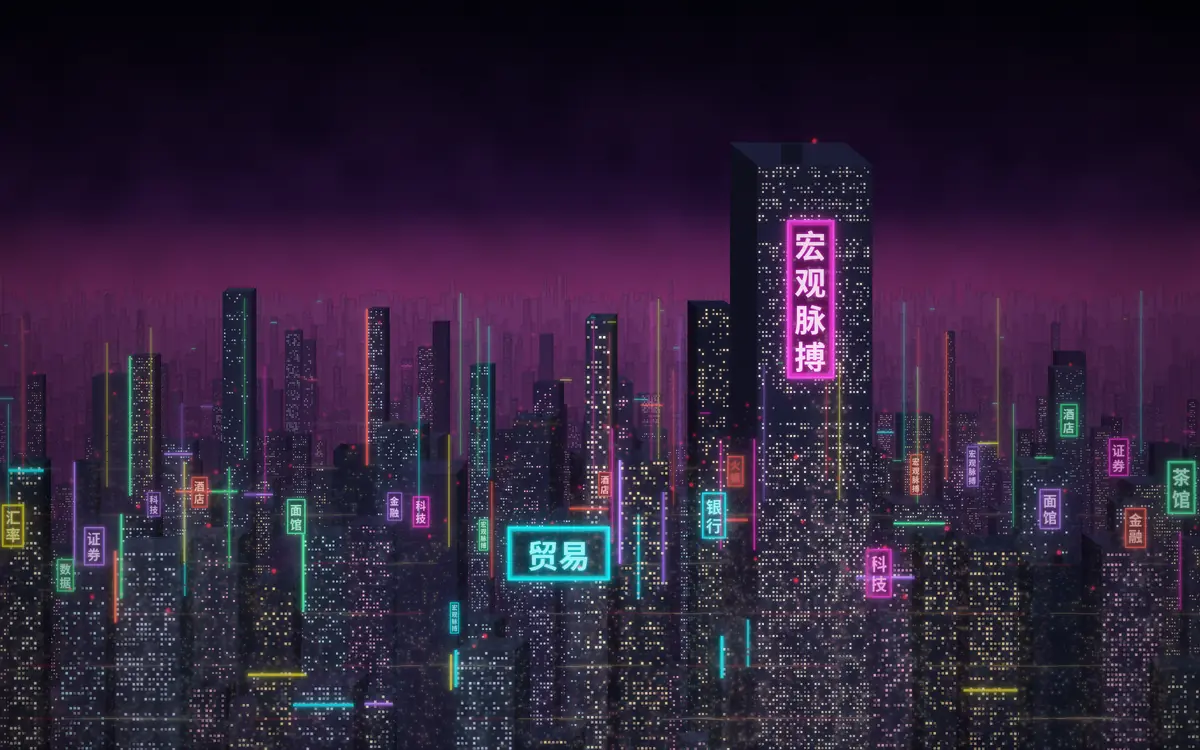
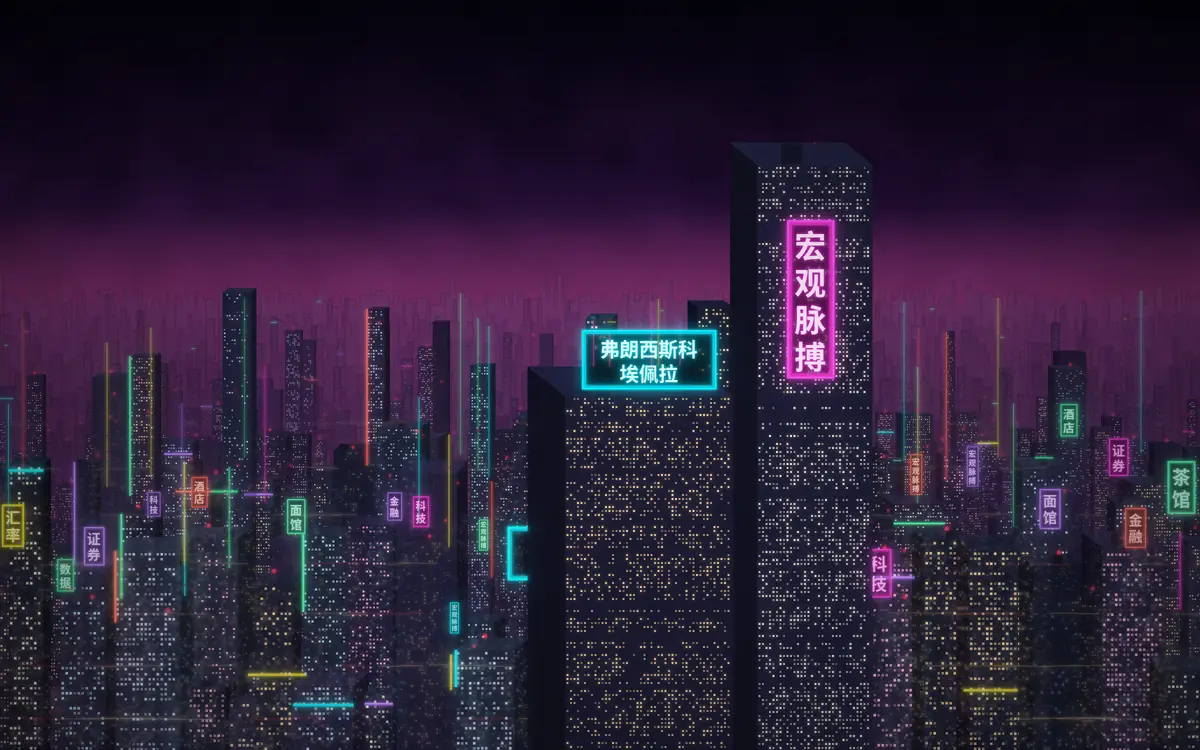
Modo Ciudad: jets privados en curva y cartel con el nombre en chino
Claude-Session: https://claude.ai/code/session_015RBW2LAWdjrm7ZmoZXJCXM

Changed region(s): [[0.4317, 0.4293, 0.74, 1.0]]

diff --git a/index.html b/index.html
@@ -169,7 +169,7 @@
 }
 </style>
 </head>
-<body><div id="cyFx" aria-hidden="true"><div class="city"></div><div class="velo"></div><div class="avion a1"><svg viewBox="0 0 120 40" aria-hidden="true"><defs><linearGradient id="cGr" x1="0" y1="0" x2="0" y2="1"><stop offset="0" stop-color="#c9ced8"/><stop offset=".55" stop-color="#8a909c"/><stop offset="1" stop-color="#4b505a"/></linearGradient><linearGradient id="cVi" x1="0" y1="0" x2="1" y2="0"><stop offset="0" stop-color="#1b2433"/><stop offset=".6" stop-color="#3d5068"/><stop offset="1" stop-color="#20283a"/></linearGradient><radialGradient id="cFl"><stop offset="0" stop-color="#7ff3ff" stop-opacity=".9"/><stop offset="1" stop-color="#00e5ff" stop-opacity="0"/></radialGradient></defs><ellipse class="ug" cx="30" cy="37" rx="11" ry="2.6" fill="url(#cFl)"/><ellipse class="ug" cx="90" cy="37" rx="11" ry="2.6" fill="url(#cFl)"/><path d="M6 27 C6 23 8 21 12 20 L34 17.5 C40 12 48 9.5 58 9.2 C67 9 74 10.5 80 14 L98 18.5 C107 20 113 21.5 115 24 C116.5 26 116 28.5 114 29.5 L101 30 A11 11 0 0 0 79 30 L41 30 A11 11 0 0 0 19 30 L9 30 C7 30 6 29 6 27Z" fill="url(#cGr)"/><path d="M38 17.6 C44 12.8 50 11 58 10.8 C66 10.7 72 11.8 77.5 14.6 L80 17.2 Z" fill="url(#cVi)"/><path d="M59 11 L60 17.4" stroke="#6b707b" stroke-width=".9"/><path d="M9 24.5 L112 23.2" stroke="#ffffff" stroke-opacity=".35" stroke-width=".7"/><path d="M46 23 L72 22.6" stroke="#5c616c" stroke-width=".8"/><circle cx="30" cy="30" r="8.4" fill="#16181d"/><circle cx="30" cy="30" r="5.2" fill="#3a3e46" stroke="#9aa0aa" stroke-width=".8"/><circle class="tb" cx="30" cy="30" r="2" fill="#4ad8ff"/><circle cx="90" cy="30" r="8.4" fill="#16181d"/><circle cx="90" cy="30" r="5.2" fill="#3a3e46" stroke="#9aa0aa" stroke-width=".8"/><circle class="tb" cx="90" cy="30" r="2" fill="#4ad8ff"/><path class="fa" d="M108.5 21.8 L114.6 23.4 L114 24.8 L108 23.6Z" fill="#fff6d8"/><path d="M6.4 22.6 L11 21.2 L11 23.4 L6.6 24.6Z" fill="#ff2a2a"/></svg></div><div class="avion a2"><svg viewBox="0 0 120 40" aria-hidden="true"><defs><linearGradient id="cGr" x1="0" y1="0" x2="0" y2="1"><stop offset="0" stop-color="#c9ced8"/><stop offset=".55" stop-color="#8a909c"/><stop offset="1" stop-color="#4b505a"/></linearGradient><linearGradient id="cVi" x1="0" y1="0" x2="1" y2="0"><stop offset="0" stop-color="#1b2433"/><stop offset=".6" stop-color="#3d5068"/><stop offset="1" stop-color="#20283a"/></linearGradient><radialGradient id="cFl"><stop offset="0" stop-color="#7ff3ff" stop-opacity=".9"/><stop offset="1" stop-color="#00e5ff" stop-opacity="0"/></radialGradient></defs><ellipse class="ug" cx="30" cy="37" rx="11" ry="2.6" fill="url(#cFl)"/><ellipse class="ug" cx="90" cy="37" rx="11" ry="2.6" fill="url(#cFl)"/><path d="M6 27 C6 23 8 21 12 20 L34 17.5 C40 12 48 9.5 58 9.2 C67 9 74 10.5 80 14 L98 18.5 C107 20 113 21.5 115 24 C116.5 26 116 28.5 114 29.5 L101 30 A11 11 0 0 0 79 30 L41 30 A11 11 0 0 0 19 30 L9 30 C7 30 6 29 6 27Z" fill="url(#cGr)"/><path d="M38 17.6 C44 12.8 50 11 58 10.8 C66 10.7 72 11.8 77.5 14.6 L80 17.2 Z" fill="url(#cVi)"/><path d="M59 11 L60 17.4" stroke="#6b707b" stroke-width=".9"/><path d="M9 24.5 L112 23.2" stroke="#ffffff" stroke-opacity=".35" stroke-width=".7"/><path d="M46 23 L72 22.6" stroke="#5c616c" stroke-width=".8"/><circle cx="30" cy="30" r="8.4" fill="#16181d"/><circle cx="30" cy="30" r="5.2" fill="#3a3e46" stroke="#9aa0aa" stroke-width=".8"/><circle class="tb" cx="30" cy="30" r="2" fill="#4ad8ff"/><circle cx="90" cy="30" r="8.4" fill="#16181d"/><circle cx="90" cy="30" r="5.2" fill="#3a3e46" stroke="#9aa0aa" stroke-width=".8"/><circle class="tb" cx="90" cy="30" r="2" fill="#4ad8ff"/><path class="fa" d="M108.5 21.8 L114.6 23.4 L114 24.8 L108 23.6Z" fill="#fff6d8"/><path d="M6.4 22.6 L11 21.2 L11 23.4 L6.6 24.6Z" fill="#ff2a2a"/></svg></div><div class="scan"></div></div>
+<body><div id="cyFx" aria-hidden="true"><div class="city"></div><div class="velo"></div><div class="jet j1"><svg aria-hidden="true" viewBox="0 0 200 62"><defs><linearGradient id="jF" x1="0" y1="0" x2="0" y2="1"><stop offset="0" stop-color="#eef0f4"/><stop offset=".35" stop-color="#c3c8d1"/><stop offset=".7" stop-color="#7d8494"/><stop offset="1" stop-color="#5a3f66"/></linearGradient><linearGradient id="jE" x1="0" y1="0" x2="0" y2="1"><stop offset="0" stop-color="#dfe2e8"/><stop offset=".6" stop-color="#8d93a0"/><stop offset="1" stop-color="#4b4357"/></linearGradient><linearGradient id="jW" x1="0" y1="0" x2="1" y2="1"><stop offset="0" stop-color="#9aa0ac"/><stop offset="1" stop-color="#535866"/></linearGradient><linearGradient id="jT" x1="0" y1="0" x2="0" y2="1"><stop offset="0" stop-color="#d4d8df"/><stop offset="1" stop-color="#8a909d"/></linearGradient><radialGradient id="jL"><stop offset="0" stop-color="#fff"/><stop offset=".35" stop-color="#fff" stop-opacity=".7"/><stop offset="1" stop-color="#fff" stop-opacity="0"/></radialGradient><radialGradient id="jR"><stop offset="0" stop-color="#ff5a5a"/><stop offset="1" stop-color="#ff2020" stop-opacity="0"/></radialGradient></defs><path d="M100 36 L126 35.6 L108 37.4 Z" fill="#6c7280" opacity=".7"/><path d="M30 25.5 L13 5 C12.4 4.2 12.8 3.6 13.8 3.6 L22 3.6 C23.2 3.6 24 4 24.6 4.8 L46 24.5 Z" fill="url(#jT)"/><path d="M3 5.4 L33 4 C34.5 4 34.6 5.8 33 6 L4 7 C2.6 7 2.4 5.5 3 5.4 Z" fill="#b9bec8"/><path d="M7 28.6 C16 25 36 23 62 22.6 L148 22.4 C162 22.4 172 23.6 180 26.4 C186 28.4 191.5 30.6 194.5 32.4 C195.4 33 195 34 193.8 34.5 C188 36.6 180 38.2 170 38.8 L76 39.4 C52 39.4 30 36.2 8 31.4 C6 31 5.8 29.2 7 28.6 Z" fill="url(#jF)"/><path d="M14 30.2 C40 33 64 34.2 96 34.4 L190 33.6" stroke="#3b4150" stroke-width="1.1" fill="none" opacity=".6"/><path d="M18 31.6 C42 34.6 66 35.6 96 35.8 L186 35.2" stroke="#9b2b3a" stroke-width=".8" fill="none" opacity=".55"/><path d="M172 25.6 C178 26.2 183.4 27.6 187.6 29.6 L186.4 30.6 C182 29.4 177 28.8 171.8 28.6 Z" fill="#121822"/><path d="M165.4 25 L170.6 25.4 L170.4 28.4 L165 28.2 Z" fill="#121822"/><g fill="#ffd9a0" opacity=".85"><ellipse cx="96" cy="27.4" rx="2" ry="2.4"/><ellipse cx="105" cy="27.4" rx="2" ry="2.4"/><ellipse cx="114" cy="27.4" rx="2" ry="2.4"/><ellipse cx="123" cy="27.4" rx="2" ry="2.4"/><ellipse cx="132" cy="27.4" rx="2" ry="2.4"/><ellipse cx="141" cy="27.4" rx="2" ry="2.4"/><ellipse cx="150" cy="27.4" rx="2" ry="2.4"/></g><path d="M156 25.2 L160.6 25.2 L160.6 33.6 L156 33.6 Z" fill="none" stroke="#5d6372" stroke-width=".6"/><path d="M46 22.6 L60 22.4 L58 26 L48 26.2 Z" fill="#8e94a1"/><path d="M36 16.6 C44 14.6 62 14.4 72 16 C75 16.6 75.6 22 72 22.8 C62 24.2 44 24 36 22.2 C33.6 21.4 33.6 17.4 36 16.6 Z" fill="url(#jE)"/><path d="M70.6 16.2 C73.8 16.8 74.6 22 70.8 22.6 C72 21 72 17.8 70.6 16.2 Z" fill="#15191f"/><path d="M36 17.6 C34.6 18.6 34.6 20.8 36 21.6 L31 21 C30 20.4 30 18.6 31 18 Z" fill="#3b3f48"/><path d="M124 37.2 L94 38.6 L66 51.4 C68.6 52.2 72 52.2 75.4 51.6 Z" fill="url(#jW)"/><path d="M124 37.2 L75.4 51.6" stroke="#c9ced7" stroke-width=".7" opacity=".7"/><path d="M66 51.4 L61.6 45.2 L63.6 45 L69.6 51.8 Z" fill="#9aa0ac"/><g class="jbl"><circle cx="110" cy="21.8" r="4" fill="url(#jR)"/><circle cx="110" cy="21.8" r="1" fill="#ff6a6a"/></g><g class="jbl jb2"><circle cx="118" cy="39.8" r="4" fill="url(#jR)"/><circle cx="118" cy="39.8" r=".9" fill="#ff6a6a"/></g><g class="jst"><circle cx="13.6" cy="4" r="5" fill="url(#jL)"/><circle cx="62.4" cy="45" r="5" fill="url(#jL)"/></g><circle cx="62.6" cy="45.3" r="1.1" fill="#ff3b3b"/><circle cx="190" cy="34.8" r="1" fill="#fff6dc"/></svg></div><div class="jet j2"><svg aria-hidden="true" viewBox="0 0 200 62"><defs><linearGradient id="kF" x1="0" y1="0" x2="0" y2="1"><stop offset="0" stop-color="#eef0f4"/><stop offset=".35" stop-color="#c3c8d1"/><stop offset=".7" stop-color="#7d8494"/><stop offset="1" stop-color="#5a3f66"/></linearGradient><linearGradient id="kE" x1="0" y1="0" x2="0" y2="1"><stop offset="0" stop-color="#dfe2e8"/><stop offset=".6" stop-color="#8d93a0"/><stop offset="1" stop-color="#4b4357"/></linearGradient><linearGradient id="kW" x1="0" y1="0" x2="1" y2="1"><stop offset="0" stop-color="#9aa0ac"/><stop offset="1" stop-color="#535866"/></linearGradient><linearGradient id="kT" x1="0" y1="0" x2="0" y2="1"><stop offset="0" stop-color="#d4d8df"/><stop offset="1" stop-color="#8a909d"/></linearGradient><radialGradient id="kL"><stop offset="0" stop-color="#fff"/><stop offset=".35" stop-color="#fff" stop-opacity=".7"/><stop offset="1" stop-color="#fff" stop-opacity="0"/></radialGradient><radialGradient id="kR"><stop offset="0" stop-color="#ff5a5a"/><stop offset="1" stop-color="#ff2020" stop-opacity="0"/></radialGradient></defs><path d="M100 36 L126 35.6 L108 37.4 Z" fill="#6c7280" opacity=".7"/><path d="M30 25.5 L13 5 C12.4 4.2 12.8 3.6 13.8 3.6 L22 3.6 C23.2 3.6 24 4 24.6 4.8 L46 24.5 Z" fill="url(#kT)"/><path d="M3 5.4 L33 4 C34.5 4 34.6 5.8 33 6 L4 7 C2.6 7 2.4 5.5 3 5.4 Z" fill="#b9bec8"/><path d="M7 28.6 C16 25 36 23 62 22.6 L148 22.4 C162 22.4 172 23.6 180 26.4 C186 28.4 191.5 30.6 194.5 32.4 C195.4 33 195 34 193.8 34.5 C188 36.6 180 38.2 170 38.8 L76 39.4 C52 39.4 30 36.2 8 31.4 C6 31 5.8 29.2 7 28.6 Z" fill="url(#kF)"/><path d="M14 30.2 C40 33 64 34.2 96 34.4 L190 33.6" stroke="#3b4150" stroke-width="1.1" fill="none" opacity=".6"/><path d="M18 31.6 C42 34.6 66 35.6 96 35.8 L186 35.2" stroke="#9b2b3a" stroke-width=".8" fill="none" opacity=".55"/><path d="M172 25.6 C178 26.2 183.4 27.6 187.6 29.6 L186.4 30.6 C182 29.4 177 28.8 171.8 28.6 Z" fill="#121822"/><path d="M165.4 25 L170.6 25.4 L170.4 28.4 L165 28.2 Z" fill="#121822"/><g fill="#ffd9a0" opacity=".85"><ellipse cx="96" cy="27.4" rx="2" ry="2.4"/><ellipse cx="105" cy="27.4" rx="2" ry="2.4"/><ellipse cx="114" cy="27.4" rx="2" ry="2.4"/><ellipse cx="123" cy="27.4" rx="2" ry="2.4"/><ellipse cx="132" cy="27.4" rx="2" ry="2.4"/><ellipse cx="141" cy="27.4" rx="2" ry="2.4"/><ellipse cx="150" cy="27.4" rx="2" ry="2.4"/></g><path d="M156 25.2 L160.6 25.2 L160.6 33.6 L156 33.6 Z" fill="none" stroke="#5d6372" stroke-width=".6"/><path d="M46 22.6 L60 22.4 L58 26 L48 26.2 Z" fill="#8e94a1"/><path d="M36 16.6 C44 14.6 62 14.4 72 16 C75 16.6 75.6 22 72 22.8 C62 24.2 44 24 36 22.2 C33.6 21.4 33.6 17.4 36 16.6 Z" fill="url(#kE)"/><path d="M70.6 16.2 C73.8 16.8 74.6 22 70.8 22.6 C72 21 72 17.8 70.6 16.2 Z" fill="#15191f"/><path d="M36 17.6 C34.6 18.6 34.6 20.8 36 21.6 L31 21 C30 20.4 30 18.6 31 18 Z" fill="#3b3f48"/><path d="M124 37.2 L94 38.6 L66 51.4 C68.6 52.2 72 52.2 75.4 51.6 Z" fill="url(#kW)"/><path d="M124 37.2 L75.4 51.6" stroke="#c9ced7" stroke-width=".7" opacity=".7"/><path d="M66 51.4 L61.6 45.2 L63.6 45 L69.6 51.8 Z" fill="#9aa0ac"/><g class="jbl"><circle cx="110" cy="21.8" r="4" fill="url(#kR)"/><circle cx="110" cy="21.8" r="1" fill="#ff6a6a"/></g><g class="jbl jb2"><circle cx="118" cy="39.8" r="4" fill="url(#kR)"/><circle cx="118" cy="39.8" r=".9" fill="#ff6a6a"/></g><g class="jst"><circle cx="13.6" cy="4" r="5" fill="url(#kL)"/><circle cx="62.4" cy="45" r="5" fill="url(#kL)"/></g><circle cx="62.6" cy="45.3" r="1.1" fill="#ff3b3b"/><circle cx="190" cy="34.8" r="1" fill="#fff6dc"/></svg></div><div class="scan"></div></div>
 <link rel="preconnect" href="https://fonts.googleapis.com">
 <link rel="stylesheet" href="https://fonts.googleapis.com/css2?family=Instrument+Sans:wght@400;500;600;700&family=JetBrains+Mono:wght@400;500;600&display=swap">
 <style>
@@ -777,19 +777,16 @@ html[data-tema="cyber"] body{background:#04050c}
 html[data-tema="cyber"] #cyFx{display:block;position:fixed;inset:0;pointer-events:none;z-index:0;overflow:hidden}
 #cyFx .city{position:absolute;inset:0;background:#05040f url(/fondos/ciudad3-2400.jpg) center bottom/cover no-repeat;background-image:image-set(url(/fondos/ciudad3-2400.webp) type("image/webp"),url(/fondos/ciudad3-2400.jpg) type("image/jpeg"))}
 @media (max-width:900px){#cyFx .city{background-position:66% bottom;background-image:url(/fondos/ciudad3-1200.jpg);background-image:image-set(url(/fondos/ciudad3-1200.webp) type("image/webp"),url(/fondos/ciudad3-1200.jpg) type("image/jpeg"))}}
-/* autos voladores (pedido del dueño 02/11/2026: deportivo gris volador genérico, de diseño propio): chicos, lentos y de a uno cada tanto; quietos con "reducir movimiento" */
-#cyFx .avion{position:absolute;left:0;width:96px;opacity:.85;will-change:transform;transform:translateX(-60px)}
-#cyFx .avion svg{width:100%;display:block}
-#cyFx .a1{top:14%;animation:avIda 64s linear infinite 6s}
-#cyFx .a2{top:25%;width:62px;opacity:.6;animation:avVuelta 92s linear infinite 38s}
-#cyFx .a2 svg{transform:scaleX(-1)}
-@keyframes avIda{0%{transform:translateX(-60px)}48%{transform:translateX(calc(100vw + 60px))}100%{transform:translateX(calc(100vw + 60px))}}
-@keyframes avVuelta{0%{transform:translateX(calc(100vw + 60px))}40%{transform:translateX(-60px)}100%{transform:translateX(-60px)}}
-#cyFx .avion .tb,#cyFx .avion .ug{animation:avTurbo .35s ease-in-out infinite alternate}
-#cyFx .avion .fa{filter:drop-shadow(0 0 3px #fff6c8)}
-@keyframes avTurbo{from{opacity:.45}to{opacity:1}}
-#cyFx .avion{filter:drop-shadow(0 0 4px #00e5ff88)}
-@media (prefers-reduced-motion: reduce){#cyFx .avion{display:none}}
+/* jets privados (pedido del dueño 02/11/2026: realista, de diseño propio, sin marca; NO en línea recta): los mueve jetVuelo() por una curva al azar, con inclinación y cambio de tamaño por distancia; quietos con "reducir movimiento" */
+#cyFx .jet{position:absolute;left:0;top:0;width:150px;opacity:0;will-change:transform,opacity;transform-origin:50% 50%}
+#cyFx .jet svg{width:100%;display:block;filter:drop-shadow(0 2px 6px rgba(0,0,0,.45))}
+#cyFx .jet.izq svg{transform:scaleX(-1)}
+#cyFx .jet .jbl{animation:jBl 1.3s steps(1) infinite}
+#cyFx .jet .jb2{animation-delay:.65s}
+#cyFx .jet .jst{opacity:0;animation:jSt 1.9s linear infinite}
+@keyframes jBl{0%{opacity:1}18%{opacity:0}100%{opacity:0}}
+@keyframes jSt{0%,6%{opacity:1}7%,13%{opacity:0}14%,18%{opacity:1}19%,100%{opacity:0}}
+@media (prefers-reduced-motion: reduce){#cyFx .jet{display:none}}
 #cyFx .velo{position:absolute;inset:0;background:linear-gradient(180deg,rgba(4,5,12,.6) 0%,rgba(4,5,12,.56) 40%,rgba(4,5,12,.5) 70%,rgba(4,5,12,.36) 100%)}
 
 #cyFx .scan{position:absolute;inset:0;background:repeating-linear-gradient(0deg,rgba(255,255,255,.028) 0 1px,transparent 1px 3px)}
@@ -9165,5 +9162,50 @@ body.mporta .hbus{display:none}
 })();
 </script>
 
+<script>
+/* Modo Ciudad: jets privados que cruzan en curva (curva de Bézier al azar en cada pasada, inclinación según la dirección, más grande o más chico según se acerca o se aleja) */
+(function jetVuelo(){
+  if (matchMedia('(prefers-reduced-motion: reduce)').matches) return;
+  const R = Math.random, cl = (v,a,b) => Math.max(a, Math.min(b, v));
+  const J = [...document.querySelectorAll('#cyFx .jet')].map((el,i) => ({el, lejos: i === 1, t0: 0, dur: 0, p: null, ang: 0, espera: performance.now() + (i ? 30000 : 5000)}));
+  function nueva(j, ahora){
+    const vw = innerWidth, vh = innerHeight, chico = vw < 700;
+    const y0 = vh*(.06 + R()*.26), y3 = vh*(.06 + R()*.30);
+    j.p = [[-260, y0], [vw*(.22 + R()*.18), y0 + (R()-.5)*vh*.4], [vw*(.58 + R()*.18), y3 + (R()-.5)*vh*.4], [vw + 260, y3]];
+    j.izq = R() < .5; j.el.classList.toggle('izq', j.izq);
+    const acerca = R() < .5;
+    const base = j.lejos ? .42 : (chico ? .62 : .9), rango = j.lejos ? .18 : .35;
+    j.s0 = acerca ? base : base + rango; j.s1 = acerca ? base + rango : base;
+    j.dur = (j.lejos ? 62000 : 42000) + R()*18000; if (chico) j.dur *= .7;
+    j.t0 = ahora; j.fase = R()*6.28;
+  }
+  function bz(p, u, d){
+    const m = 1-u;
+    if (!d) return [0,1].map(k => m*m*m*p[0][k] + 3*m*m*u*p[1][k] + 3*m*u*u*p[2][k] + u*u*u*p[3][k]);
+    return [0,1].map(k => 3*m*m*(p[1][k]-p[0][k]) + 6*m*u*(p[2][k]-p[1][k]) + 3*u*u*(p[3][k]-p[2][k]));
+  }
+  function paso(ahora){
+    const on = document.documentElement.dataset.tema === 'cyber' && !document.hidden;
+    if (!on) { J.forEach(j => { j.el.style.opacity = 0; j.p = null; }); return setTimeout(() => requestAnimationFrame(paso), 2000); }
+    for (const j of J) {
+      if (!j.p) { if (ahora < j.espera) continue; nueva(j, ahora); }
+      const t = (ahora - j.t0) / j.dur;
+      if (t >= 1) { j.p = null; j.el.style.opacity = 0; j.espera = ahora + (j.lejos ? 35000 : 18000) + R()*30000; continue; }
+      const u = cl(t + .035*Math.sin(t*6.28), 0, 1);        // velocidad que varía un poco
+      let [x, y] = bz(j.p, u), [dx, dy] = bz(j.p, u, 1);
+      let a = cl(Math.atan2(dy, dx) * 57.3, -16, 16);
+      a += Math.sin(ahora/1700 + j.fase) * .8;               // leve balanceo
+      j.ang += (a - j.ang) * .08;
+      if (j.izq) x = innerWidth - x;
+      const s = j.s0 + (j.s1 - j.s0) * t;
+      const op = cl(Math.min(t, 1-t) / .05, 0, 1) * (j.lejos ? .62 : .92);
+      j.el.style.opacity = op.toFixed(3);
+      j.el.style.transform = `translate3d(${(x-75).toFixed(1)}px,${y.toFixed(1)}px,0) rotate(${(j.izq ? -j.ang : j.ang).toFixed(2)}deg) scale(${s.toFixed(3)})`;
+    }
+    requestAnimationFrame(paso);
+  }
+  requestAnimationFrame(paso);
+})();
+</script>
 </body>
 </html>

diff --git a/scripts/ciudad_render.py b/scripts/ciudad_render.py
@@ -46,7 +46,7 @@ PAL_VENT = [(255, 214, 150), (255, 236, 196), (170, 230, 255), (255, 170, 210), 
 NEON = [(0, 240, 255), (255, 43, 214), (252, 238, 10), (57, 255, 158), (164, 107, 255), (255, 90, 60)]
 PALABRAS = ['宏观脉搏', '宏观脉搏', '金融', '银行', '证券', '汇率', '股市', '夜市', '火锅', '面馆', '外汇', '贸易', '酒店', '茶馆', '数据', '科技']
 
-def edificio(d, gdr, x, top, w, piso, prof, col, niebla, dens, cerca):
+def edificio(d, gdr, x, top, w, piso, prof, col, niebla, dens, cerca, encendido=False):
     """Edificio en perspectiva desde arriba: cara frontal, cara lateral y terraza."""
     lado = int(w * random.uniform(.18, .32)) if cerca > .3 else int(w * .15)
     dir_ = 1 if x + w / 2 < W / 2 else -1        # lado visible según de qué lado del centro está
@@ -72,7 +72,7 @@ def edificio(d, gdr, x, top, w, piso, prof, col, niebla, dens, cerca):
         ex = x + random.randint(4, max(5, w - 20)); d.rectangle([ex, top - terraza + 2, ex + w * .18, top - 2], fill=mezcla(r, (0, 0, 0), .35))
     # ventanas
     vw = max(1, int(1 + 4 * cerca)); vh = max(1, int(1 + 4 * cerca)); sx = vw + max(1, int(1 + 2.5 * cerca)); sy = vh + max(1, int(2 + 3 * cerca))
-    pal = random.choice(PAL_VENT); apagado = random.random() < .15
+    pal = random.choice(PAL_VENT); apagado = random.random() < .15 and not encendido
     for wy in range(int(top) + 4, min(int(piso), H) - 2, sy):
         fila_on = random.random() < .85
         for wx in range(int(x) + 3, int(x + w) - vw - 1, sx):
@@ -180,9 +180,9 @@ fx, fy, paso = int(W * .66), int(H * .30), 74
 torre = Image.new('RGBA', (W, H), (0, 0, 0, 0)); td = ImageDraw.Draw(torre)
 tg = Image.new('RGB', (W, H), (0, 0, 0)); tgd = ImageDraw.Draw(tg)
 random.seed(99)
-edificio(td, tgd, fx - 70, fy - 120, 230, H + 10, .05, (26, 28, 52, 255), (40, 18, 58), .45, .9)
+edificio(td, tgd, fx - 70, fy - 120, 230, H + 10, .05, (26, 28, 52, 255), (40, 18, 58), .45, .9, encendido=True)
 lienzo = Image.alpha_composite(lienzo.convert('RGBA'), torre).convert('RGB'); cd = ImageDraw.Draw(lienzo)
-glow = ImageChops.lighter(glow, tg); gd = ImageDraw.Draw(glow)
+glow = Image.composite(tg, glow, torre.split()[3]); gd = ImageDraw.Draw(glow)   # la torre tapa el brillo de lo que queda atrás
 fnt = fuente(int(paso * .86)); pal = '宏观脉搏'
 cd.rectangle([fx - 10, fy - 10, fx + paso + 10, fy + paso * 4 + 10], fill=(8, 4, 18), outline=(255, 43, 214), width=4)
 gd.rectangle([fx - 10, fy - 10, fx + paso + 10, fy + paso * 4 + 10], outline=(255, 43, 214), width=10)
@@ -190,6 +190,26 @@ for i, ch in enumerate(pal):
     cy = fy + i * paso + paso / 2
     cd.text((fx + paso / 2, cy), ch, font=fnt, fill=(255, 225, 250), anchor='mm')
     gd.text((fx + paso / 2, cy), ch, font=fnt, fill=(255, 43, 214), anchor='mm')
+
+# ---------- cartel con el nombre del dueño: 弗朗西斯科 埃佩拉 = "Francisco Epherra" (pedido del dueño 02/11/2026) ----------
+nx, ny, np_ = int(W * .485), int(H * .44), 44
+lineas = ['弗朗西斯科', '埃佩拉']                      # en dos renglones para que entre también en el recorte del celular
+random.seed(7)
+torre = Image.new('RGBA', (W, H), (0, 0, 0, 0)); td = ImageDraw.Draw(torre)
+tg = Image.new('RGB', (W, H), (0, 0, 0)); tgd = ImageDraw.Draw(tg)
+ancho_n = int(np_ * 5 * 1.04 + np_ * .9); alto_n = int(np_ * 2.7)
+edificio(td, tgd, nx - 34, ny + alto_n + 14, ancho_n + 68, H + 10, .08, (24, 26, 48, 255), (40, 18, 58), .42, .8, encendido=True)
+lienzo = Image.alpha_composite(lienzo.convert('RGBA'), torre).convert('RGB'); cd = ImageDraw.Draw(lienzo)
+glow = Image.composite(tg, glow, torre.split()[3]); gd = ImageDraw.Draw(glow)   # la torre tapa el brillo de lo que queda atrás
+for sx in (nx + 18, nx + ancho_n - 24):              # soportes del cartel sobre la terraza
+    cd.rectangle([sx, ny + alto_n, sx + 6, ny + alto_n + 22], fill=(30, 30, 46))
+cd.rectangle([nx, ny, nx + ancho_n, ny + alto_n], fill=(6, 10, 20), outline=(0, 229, 255), width=3)
+gd.rectangle([nx, ny, nx + ancho_n, ny + alto_n], outline=(0, 229, 255), width=8)
+fnt = fuente(int(np_ * .9))
+for i, t in enumerate(lineas):
+    cy = ny + np_ * (.82 + i * 1.12)
+    cd.text((nx + ancho_n / 2, cy), t, font=fnt, fill=(220, 252, 255), anchor='mm')
+    gd.text((nx + ancho_n / 2, cy), t, font=fnt, fill=(0, 229, 255), anchor='mm')
 
 # ---------- bloom, grano y viñeta ----------
 im = np.asarray(lienzo, float)

diff --git a/CLAUDE.md b/CLAUDE.md
@@ -49,9 +49,12 @@ Nada de datos personales, trámites, claves, mails ni preferencias privadas del 
   pidió algo realista y no le gustó ni la foto ni el dibujo SVG): `scripts/ciudad_render.py` (12 capas de edificios en perspectiva
   con terrazas, ventanas, neblina y desenfoque por distancia, calles con luces, bloom y grano; ~22 carteles de neón en chino y una
   torre protagonista con 宏观脉搏 = "Pulso Macro") → `fondos/ciudad3-2400.webp/.jpg` y `-1200` (≤900px, encuadre 66%); solo se baja
-  en ese modo. Quedaron sin uso `fondos/chongqing-*` (foto) y `fondos/ciudad2*.svg`. Dos autos voladores `.avion`: deportivo gris
-  genérico de perfil, con ruedas que brillan abajo (diseño propio; no se copian autos reales), arriba del velo, cruzan cada 64 y
-  92 s; ocultos con reducir movimiento. UN solo
+  en ese modo. Quedaron sin uso `fondos/chongqing-*` (foto) y `fondos/ciudad2*.svg`. Cartel cian con el nombre del dueño en chino (弗朗西斯科 / 埃佩拉 = "Francisco Epherra", en dos renglones para que entre en el
+  recorte del celular). Dos jets privados `.jet` (pedido del dueño 02/11/2026: realistas, de diseño propio sin marca, NO en
+  línea recta; reemplazan a los autos voladores, que no le gustaron): `jetVuelo` al final de index.html los mueve por una
+  curva de Bézier al azar en cada pasada, con inclinación según la dirección, balanceo leve y tamaño que cambia (se acerca o
+  se aleja); luces de navegación que titilan (`.jbl`, `.jst`); solo corre en modo Ciudad con la pestaña visible; ocultos con
+  reducir movimiento. UN solo
   botón `button[data-tema]` que va pasando oscuro → claro → Ciudad (solo con la marca) → oscuro (`temaSig`, pedido del dueño
   02/11/2026) y dice a qué modo pasa. El script del `<head>` solo aplica 'cyber' si está `pm-ciudad`. Es por dispositivo.
 - Fuentes: Instrument Sans + JetBrains Mono. Series: s1 azul #3987e5, s2 naranja #d95926, s3 aqua #199e70,
